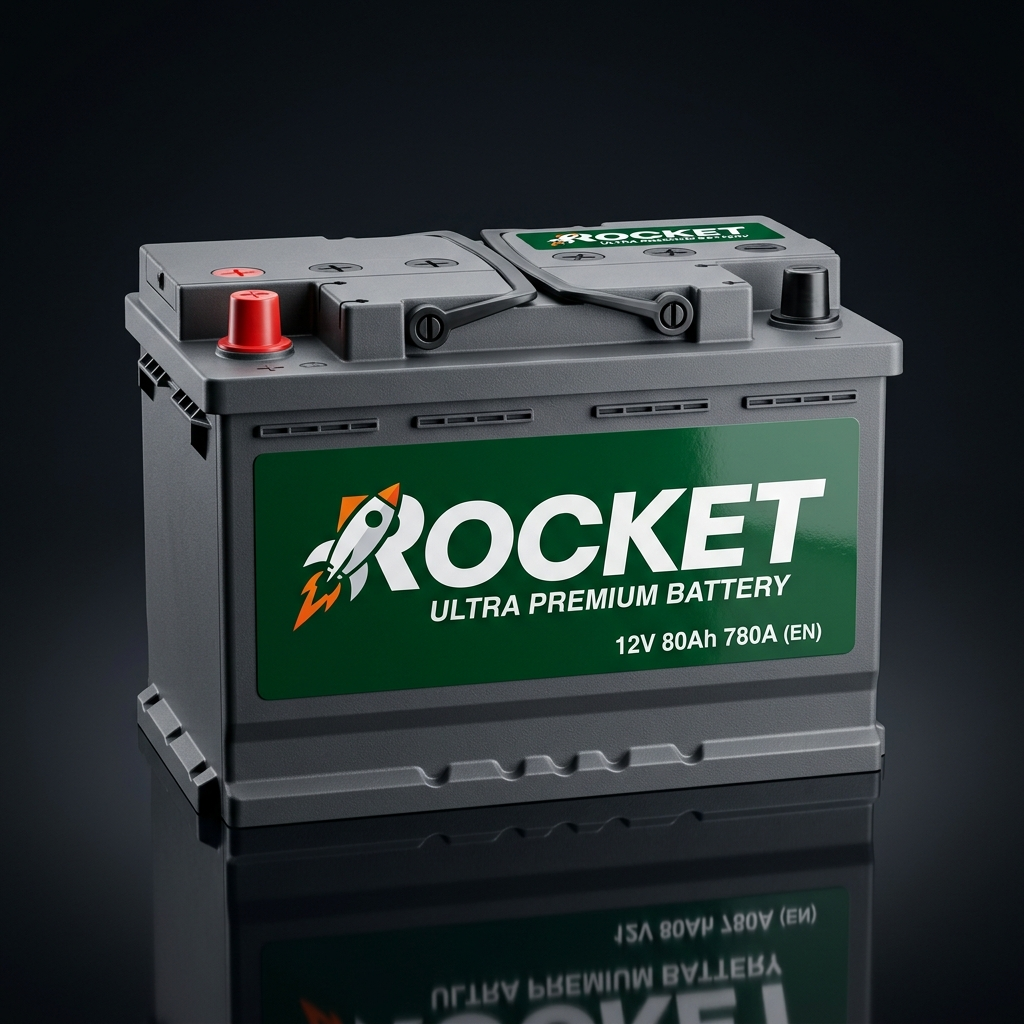
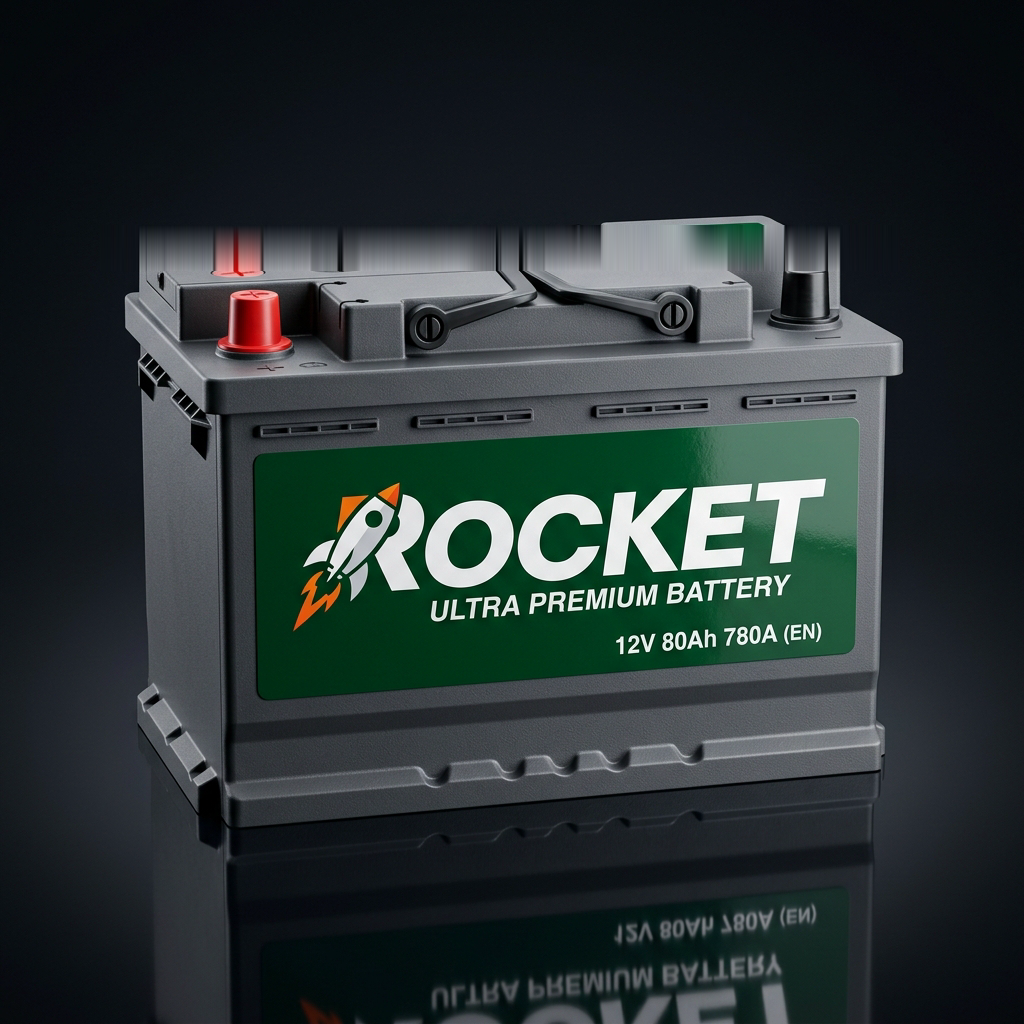
fix: revert rocket brand page to standard single battery layout and perfectly erase text

Changed region(s): [[0.125, 0.2188, 0.8438, 0.2812]]

diff --git a/brand-rocket.html b/brand-rocket.html
@@ -130,8 +130,8 @@
             text-align: center;
         }
         .brand-banner-img {
-            width: 100%;
-            max-width: 1200px;
+            width: 40%;
+            max-width: 480px;
             height: auto;
             border-radius: 16px;
             filter: drop-shadow(0 25px 50px rgba(0,0,0,0.8));
@@ -163,7 +163,7 @@
             <a href="index.html#brands" class="back-link" style="justify-content: center; margin-bottom: 2rem;"><i class="fa-solid fa-arrow-left"></i> Markalara Dön</a>
             
             <!-- Yeni Geniş Görsel Alanı -->
-            <img src="assets/rocket_banner.png" alt="Rocket Battery Ultimate Power" class="brand-banner-img">
+            <img src="assets/brand_rocket.png" alt="Rocket Battery Ultimate Power" class="brand-banner-img">
             
             <div class="brand-content">
                 <h1>ROCKET AKÜ</h1>
